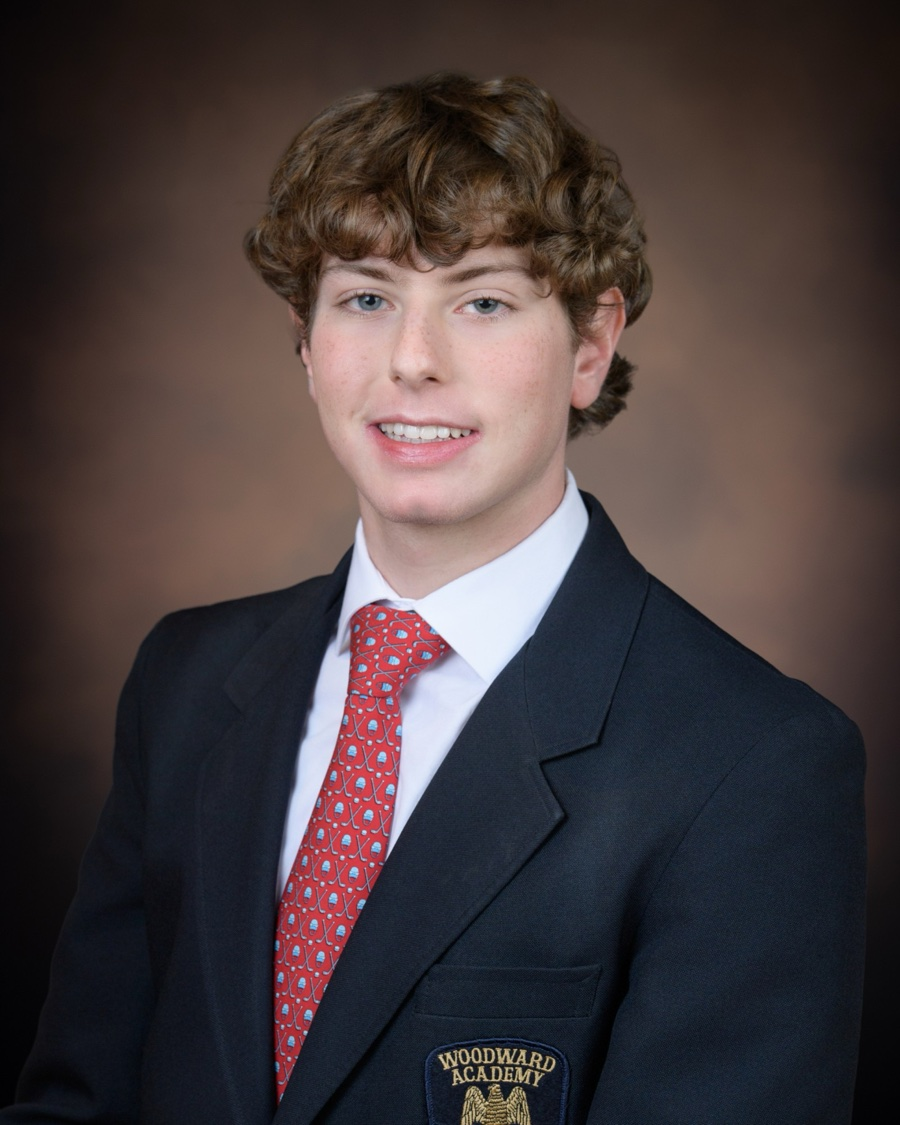
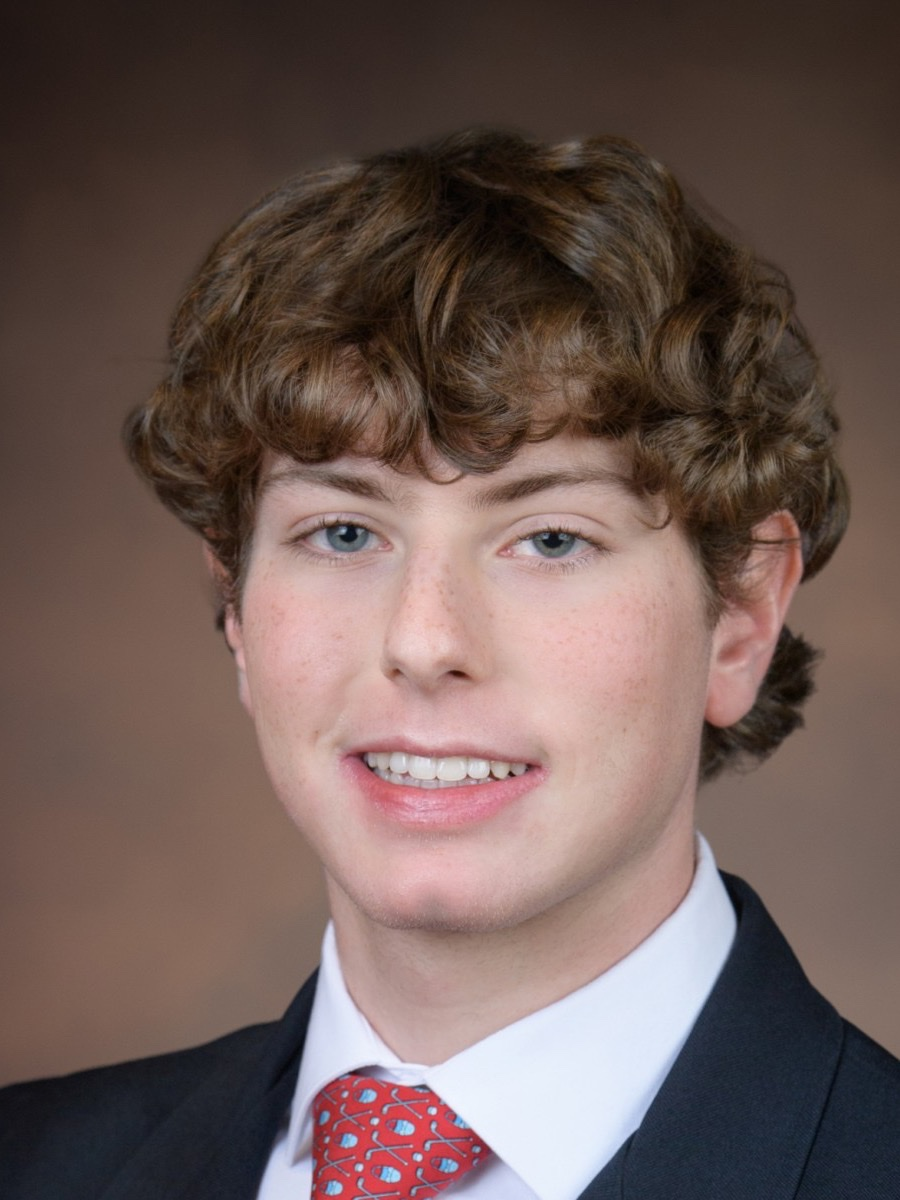
Add Colter's year, remove placeholder members, recrop headshots, fit member grid border to tiles

diff --git a/src/data/members.ts b/src/data/members.ts
@@ -35,7 +35,7 @@ export const board: BoardMember[] = [
     name: "Colter Gladish",
     role: "Director of Technology",
     title: "Founding Partner",
-    education: "Financial Math + CS",
+    education: "Financial Math + CS · 2029",
     photo: "/headshot-colter-gladish.jpg",
     linkedin: { href: "https://www.linkedin.com/in/coltergladish/", label: "LinkedIn →" },
   },
@@ -46,13 +46,6 @@ export const deskHeads: DeskHead[] = Array.from({ length: 4 }, () => ({
   desk: "[Desk name]",
 }));
 
-/** Tracks for the remaining placeholder tiles. */
-const placeholderTracks: Track[] = [
-  "Trading", "Trading", "Engineering", "Engineering", "Trading",
-  "Trading", "Engineering", "Trading", "Engineering", "Trading", "Engineering",
-];
-
 export const members: Member[] = [
   { name: "Avi Goldschmidt", track: "Engineering", desk: "[Desk name]", photo: "/headshot-avi-goldschmidt.jpg" },
-  ...placeholderTracks.map((track) => ({ name: "[Name]", track, desk: "[Desk name]" })),
 ];

diff --git a/src/components/MemberGrid.module.css b/src/components/MemberGrid.module.css
@@ -2,14 +2,21 @@
   display: grid;
   grid-template-columns: repeat(auto-fill, minmax(180px, 1fr));
   gap: 0;
-  border: 1.5px solid var(--ink);
+  /* Room for the tiles' outer lines. */
+  padding: 0.75px;
 }
+/* A filter with no matches shows nothing instead of an empty bordered box. */
+.grid:empty { display: none; }
 
 .card {
   position: relative;
   aspect-ratio: 3 / 4;
   background: #c9c8c3;
   overflow: hidden;
+  /* Each tile draws its own line, centred on its edge, so neighbours share one
+     1.5px line and the border wraps only the tiles that exist. */
+  outline: 1.5px solid var(--ink);
+  outline-offset: -0.75px;
 }
 
 .photo { object-fit: cover; }
